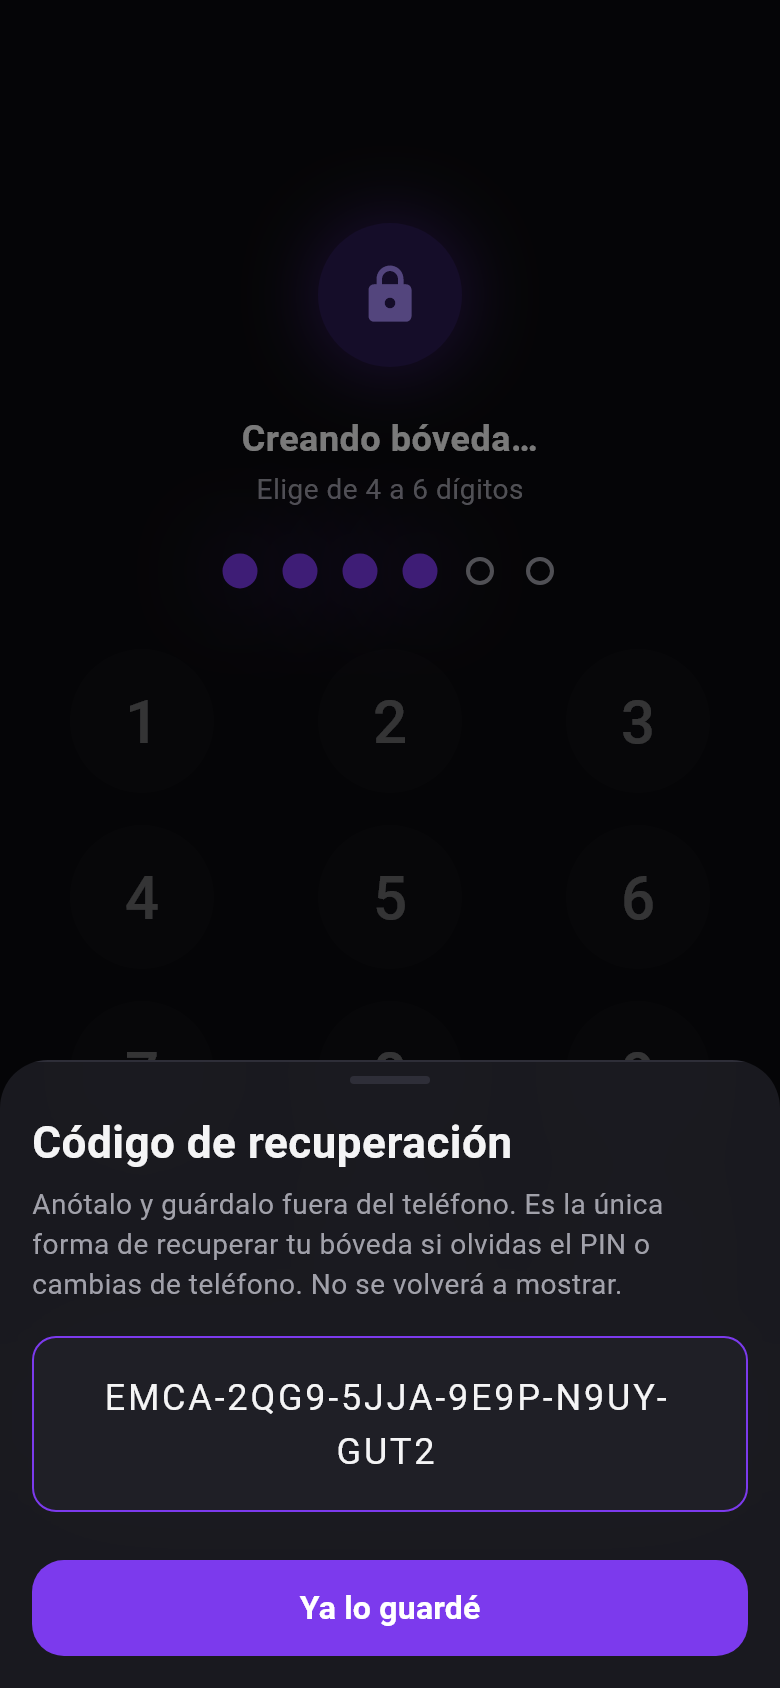
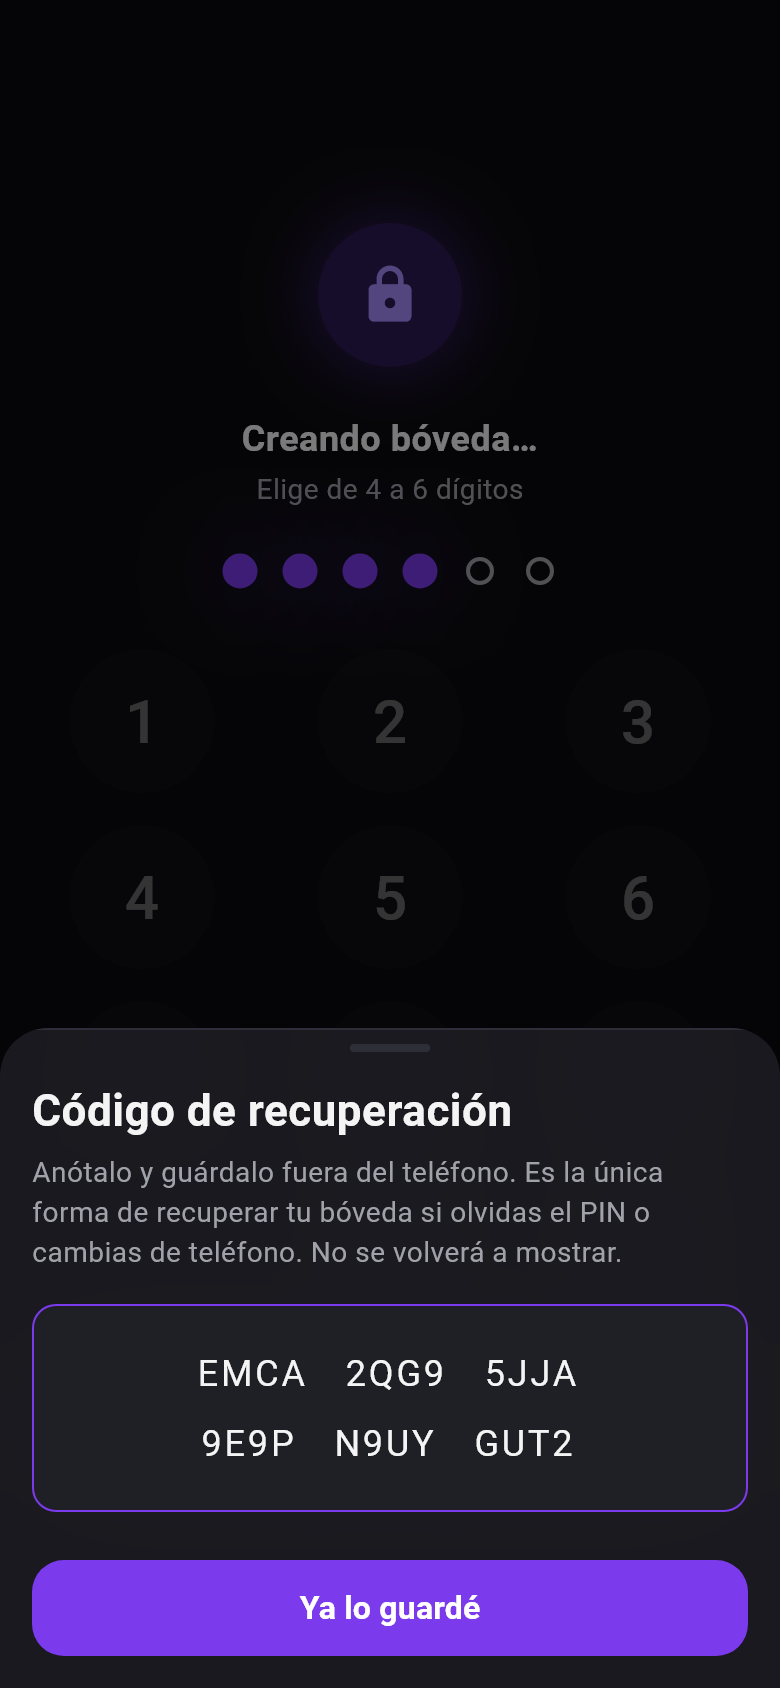
UI: grupos del codigo de recuperacion indivisibles (3 por fila)

diff --git a/lib/features/auth/widgets/auth_sheets.dart b/lib/features/auth/widgets/auth_sheets.dart
@@ -17,6 +17,15 @@ Future<void> showRecoveryCodeSheet(BuildContext context, String code) {
   );
 }
 
+/// Parte el código (`XXXX-XXXX-...`) en filas de 3 grupos.
+List<List<String>> _groupRows(String code) {
+  final groups = code.split('-').where((g) => g.isNotEmpty).toList();
+  return [
+    for (var i = 0; i < groups.length; i += 3)
+      groups.sublist(i, i + 3 > groups.length ? groups.length : i + 3),
+  ];
+}
+
 class RecoveryCodeContent extends StatelessWidget {
   const RecoveryCodeContent({super.key, required this.code});
 
@@ -45,10 +54,29 @@ class RecoveryCodeContent extends StatelessWidget {
             ),
             child: Semantics(
               label: 'Código de recuperación: $code',
-              child: SelectableText(
-                code,
-                textAlign: TextAlign.center,
-                style: AppTypography.code,
+              // Cada grupo de 4 caracteres es un widget indivisible: nunca se
+              // parte entre líneas. Se muestran 3 grupos por fila.
+              child: ExcludeSemantics(
+                child: Column(
+                  mainAxisSize: MainAxisSize.min,
+                  children: [
+                    for (final row in _groupRows(code))
+                      Row(
+                        mainAxisAlignment: MainAxisAlignment.center,
+                        children: [
+                          for (final group in row)
+                            Padding(
+                              padding: AppSpacing.recoveryGroup,
+                              child: SelectableText(
+                                group,
+                                maxLines: 1,
+                                style: AppTypography.code,
+                              ),
+                            ),
+                        ],
+                      ),
+                  ],
+                ),
               ),
             ),
           ),

diff --git a/lib/core/theme/app_spacing.dart b/lib/core/theme/app_spacing.dart
@@ -14,6 +14,8 @@ abstract final class AppSpacing {
   static const EdgeInsets page = EdgeInsets.all(lg);
   static const EdgeInsets pageHorizontal = EdgeInsets.symmetric(horizontal: lg);
   static const EdgeInsets card = EdgeInsets.all(md);
+  static const EdgeInsets recoveryGroup =
+      EdgeInsets.symmetric(horizontal: sm, vertical: xs);
   static const EdgeInsets sheet = EdgeInsets.fromLTRB(lg, sm, lg, lg);
   static const EdgeInsets gridPage = EdgeInsets.fromLTRB(
     lg,
